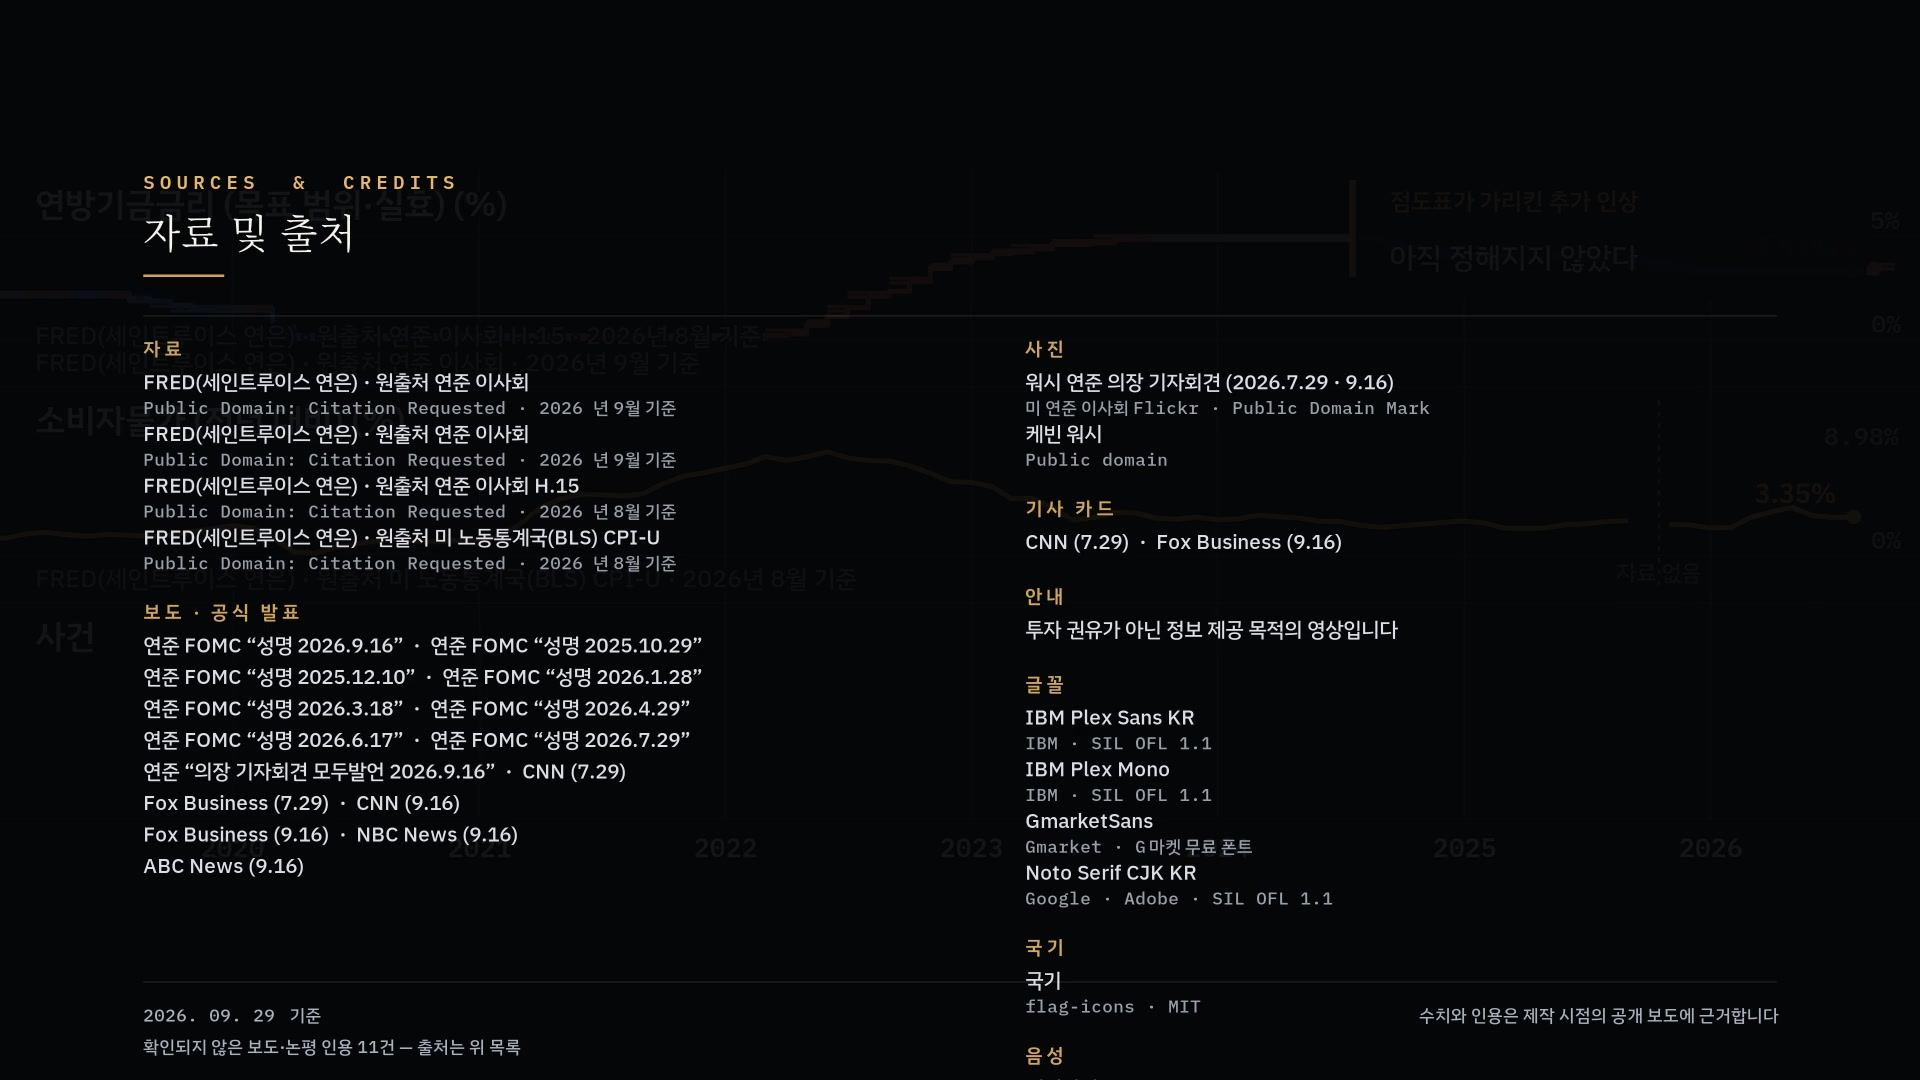
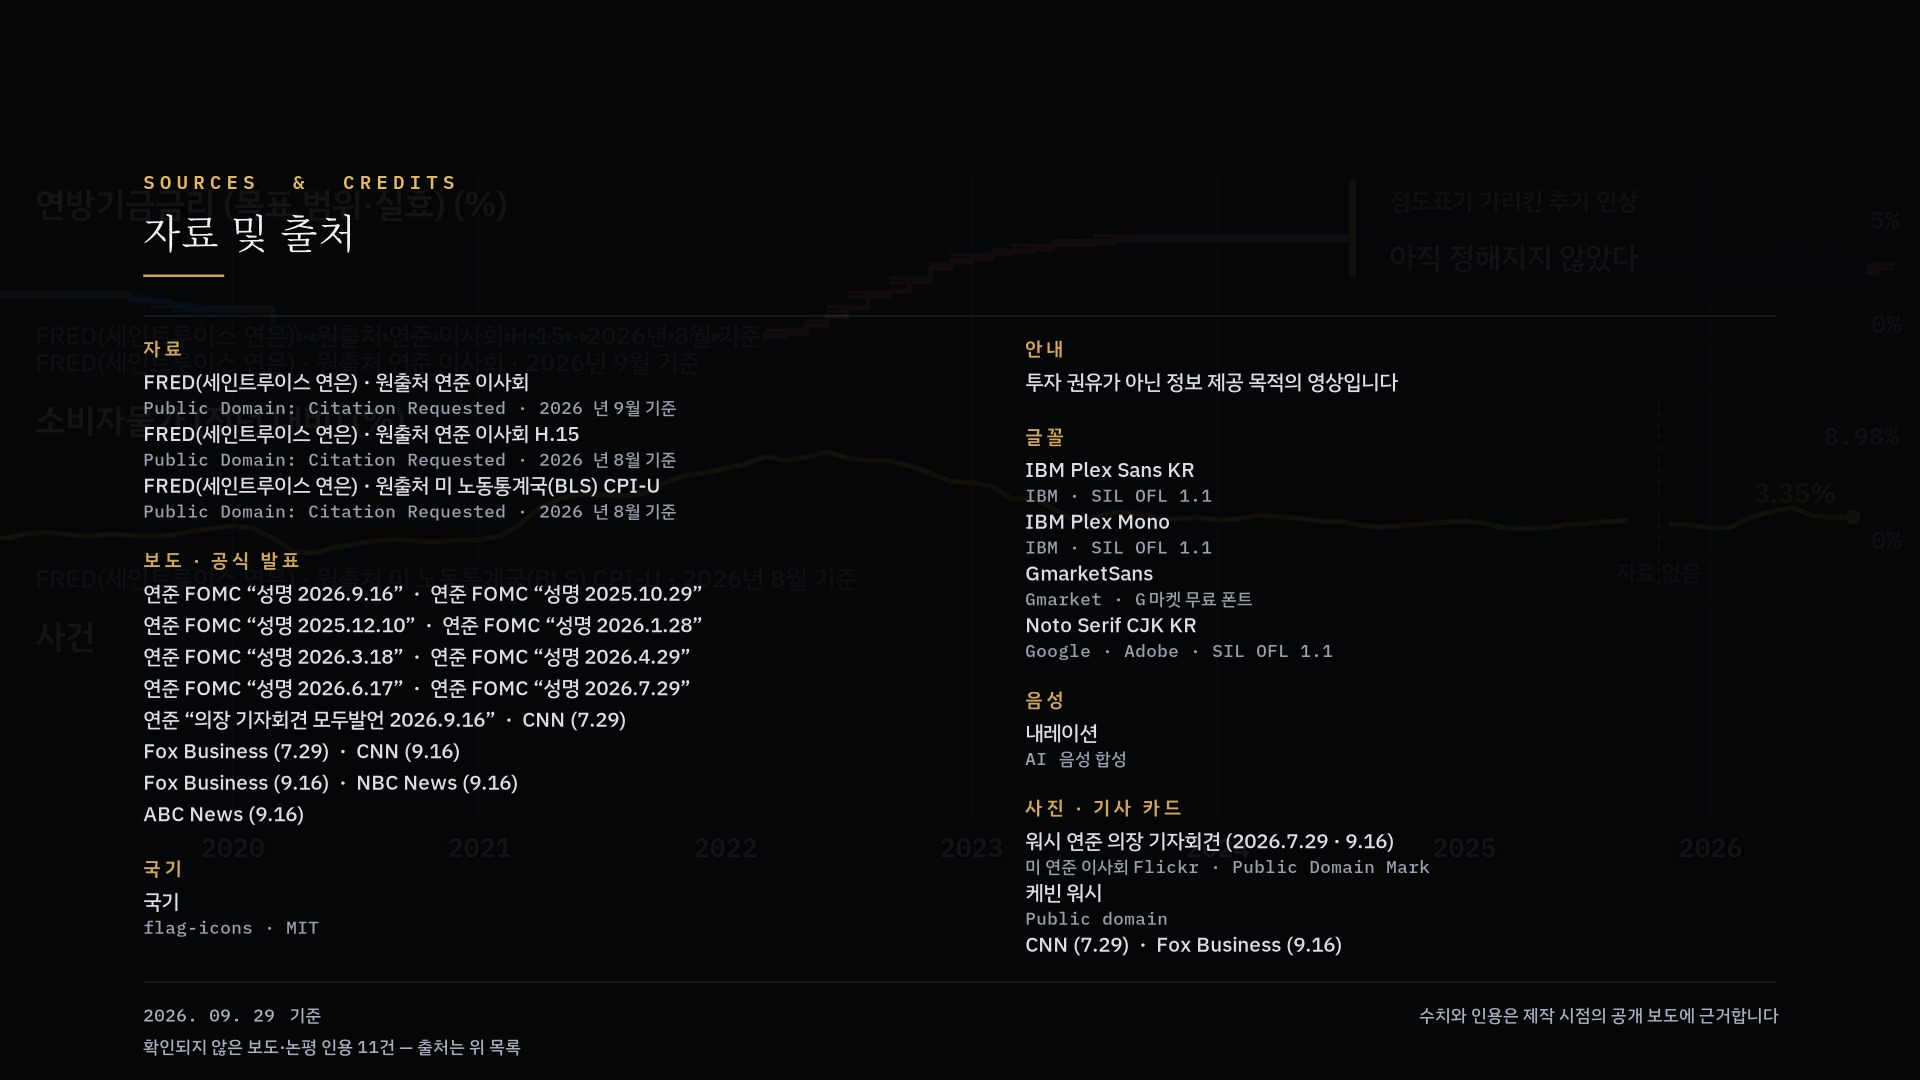
v4.5.0: WIP G5 산출물 — endcard_before(옛 after)·endcard_after(1080p)·label_off_diff fed_policy(5/22, 영역 안)·시트·run_log 초안 (전편 재렌더 진행 중)

diff --git a/docs/handoff/reports/phaseG5/run_log.md b/docs/handoff/reports/phaseG5/run_log.md
@@ -1,0 +1,65 @@
+<!--
+tier: 3
+last_synced_with: v4.5.0
+ssot_for: [phaseG5-run-log]
+depends_on: [engine/fullcards.py, engine/credits.py, engine/checks.py, engine/subtitles.py, rules/video_rules.yaml, projects/fed_policy_2026/credits.yaml]
+last_review: 2026-09-29
+-->
+
+# Phase G5 실행 기록 — 검증 라벨 본문 제거·엔딩 카드 한 줄 (v4.5.0)
+
+지침 D-0096(사용자 결정 D85, C9 개정), 결정 D-0098(엔딩 카드 넘침·갤러리 gantt)·D-0099(크레딧 A). 시각은 KST.
+작업 0~5 는 재기동 16 세션, D-0098 §2·§4 이후는 재기동 17 세션(새 컨테이너)이 했다.
+
+## 0. 컨테이너 준비(재기동 17)
+
+phaseG4 run_log §0 그대로(하위 에이전트 수행). 차이만 적는다.
+
+| 단계 | 결과·주의 |
+|---|---|
+| pip·apt(ffmpeg 6.1.1, fonts-noto-cjk)·certifi 에 프록시 CA 덧붙임 | OK. edge-tts 실호출 확인 |
+| fetch_data all·people | OK(Commons 429 대기 3회). `fetch_data media` 는 phase9~11 대로 건너뜀(media_src 복원으로 충분) |
+| hormuz geo.prep 480p·1080p, ratcliffe geo.prep | `ok:true`(1080p 한 번에 끝남) |
+| 자산 복원 | artifacts phase7(hormuz)·phase9(랫클리프)·G3(데모)·G4(fed_policy shared + `out/mix.flac`). G5 브랜치에는 shared 가 없다(입력 = G4) |
+| fed_policy 믹스 | `mix.flac` → `ffmpeg … -f f32le -ar 44100 -ac 2 out/mix.f32`. audio.mix 를 다시 돌리지 않았다(§3 오디오 스트림 md5 로 확인) |
+| AI 연출 기록 | G5 ARTIFACT_README 절차(run2·run3 사본 → prev/, direction.meta.json) |
+| 지오 자산 대조 | phaseG2 `asset_md5.json` hormuz 21/21(480p·1080p)·랫클리프 15/15 |
+
+재기동 16 이 stash 해 둔 D-0098 §2 코드는 커밋되지 않아 컨테이너 회수로 사라졌다. R-0113 의 설계(함수 이름·규칙 키·검사 태그)대로 다시 짰다.
+
+## 1. 작업 순서와 증명
+
+| 작업 | 커밋 | 증명 |
+|---|---|---|
+| 0 VERSION·CHANGELOG | b3fa673 | 1016 passed |
+| 1 규칙 notice_unverified | e57bec2 | 1016 passed |
+| 2 렌더 라벨 제거·엔딩 한 줄 | 38d72a2 | 1016 passed |
+| 3 검사·테스트 12 | ac9bc27 | 1028 passed |
+| 4 회귀·첫 재렌더 | 3a2b8e1 | label_off_diff(랫클리프·fed_policy), 갤러리 33/34 |
+| 5 문서 | 0487a6b | test_docs_sync |
+| D-0098 §2·§4 + D-0099 A | 3a24242(WIP 표기로 먼저 푸시) · b558eac(검증 완결) | 1034 passed, test_g5_endcard_overflow 6 |
+| 재렌더·산출물 | 이 커밋 | §3 |
+
+## 2. 명령
+
+```bash
+# 크레딧 배치 실측(엔딩 카드 두 열 마지막 기준선, 한도 = H−44 − bottom_margin = 428)
+python -c "from pathlib import Path; from engine.project import load_project; from engine import fullcards as f; \
+P=load_project(Path('projects/fed_policy_2026')); s=f.project_credit_sections(P.R); \
+print(f.endcard_layout(s,[x.column for x in P.R.credits.sections])[1])"          # [415.0, 423.0]
+# 전후 프리뷰: G5 직전 코드 e57bec2 + 직전 credits.yaml(git worktree, 자산은 심볼릭 링크) vs 현재
+git worktree add /tmp/wt_old e57bec2
+python -m engine.render projects/fed_policy_2026 --preview <auto 22 시각>        # 두 트리에서 각각
+python -m engine.render projects/fed_policy_2026 --preview 301.12 --res 1080p   # endcard_after.jpg
+python -m engine.render projects/fed_policy_2026 --jobs 4 && python -m engine.mux projects/fed_policy_2026
+python -m engine.render projects/fed_policy_2026 --jobs 4 --res 1080p && python -m engine.mux projects/fed_policy_2026
+```
+
+## 3. 측정
+
+(재렌더 뒤 채움)
+
+## 4. 운영 기록
+
+- 재기동 16 이 R-0113 결정 대기 중 미커밋 코드를 stash 로 두고 멈췄고, 컨테이너 회수로 잃었다. 이번 세션은 자산 복원을 기다리는 동안 코드를 `WIP` 커밋(3a24242)으로 먼저 푸시했다. 이력 재작성 금지라 그 커밋을 고치지 않고, 복원 뒤 전체 pytest 통과를 b558eac 에 적었다.
+- 프리뷰가 넘치는 엔딩 컷에서 예외로 멈추면 checks.json 이 쓰이지 않아 `[endcard-overflow]` 가 연출 루프에 닿지 않는다. 그래서 프리뷰는 그 컷을 건너뛰고(로그 한 줄) checks offscreen hard 로 남긴다. 전편 렌더는 같은 오류로 멈춘다(D-0098 §2(b) 범위 안의 배선, phase_report 에 보고).
